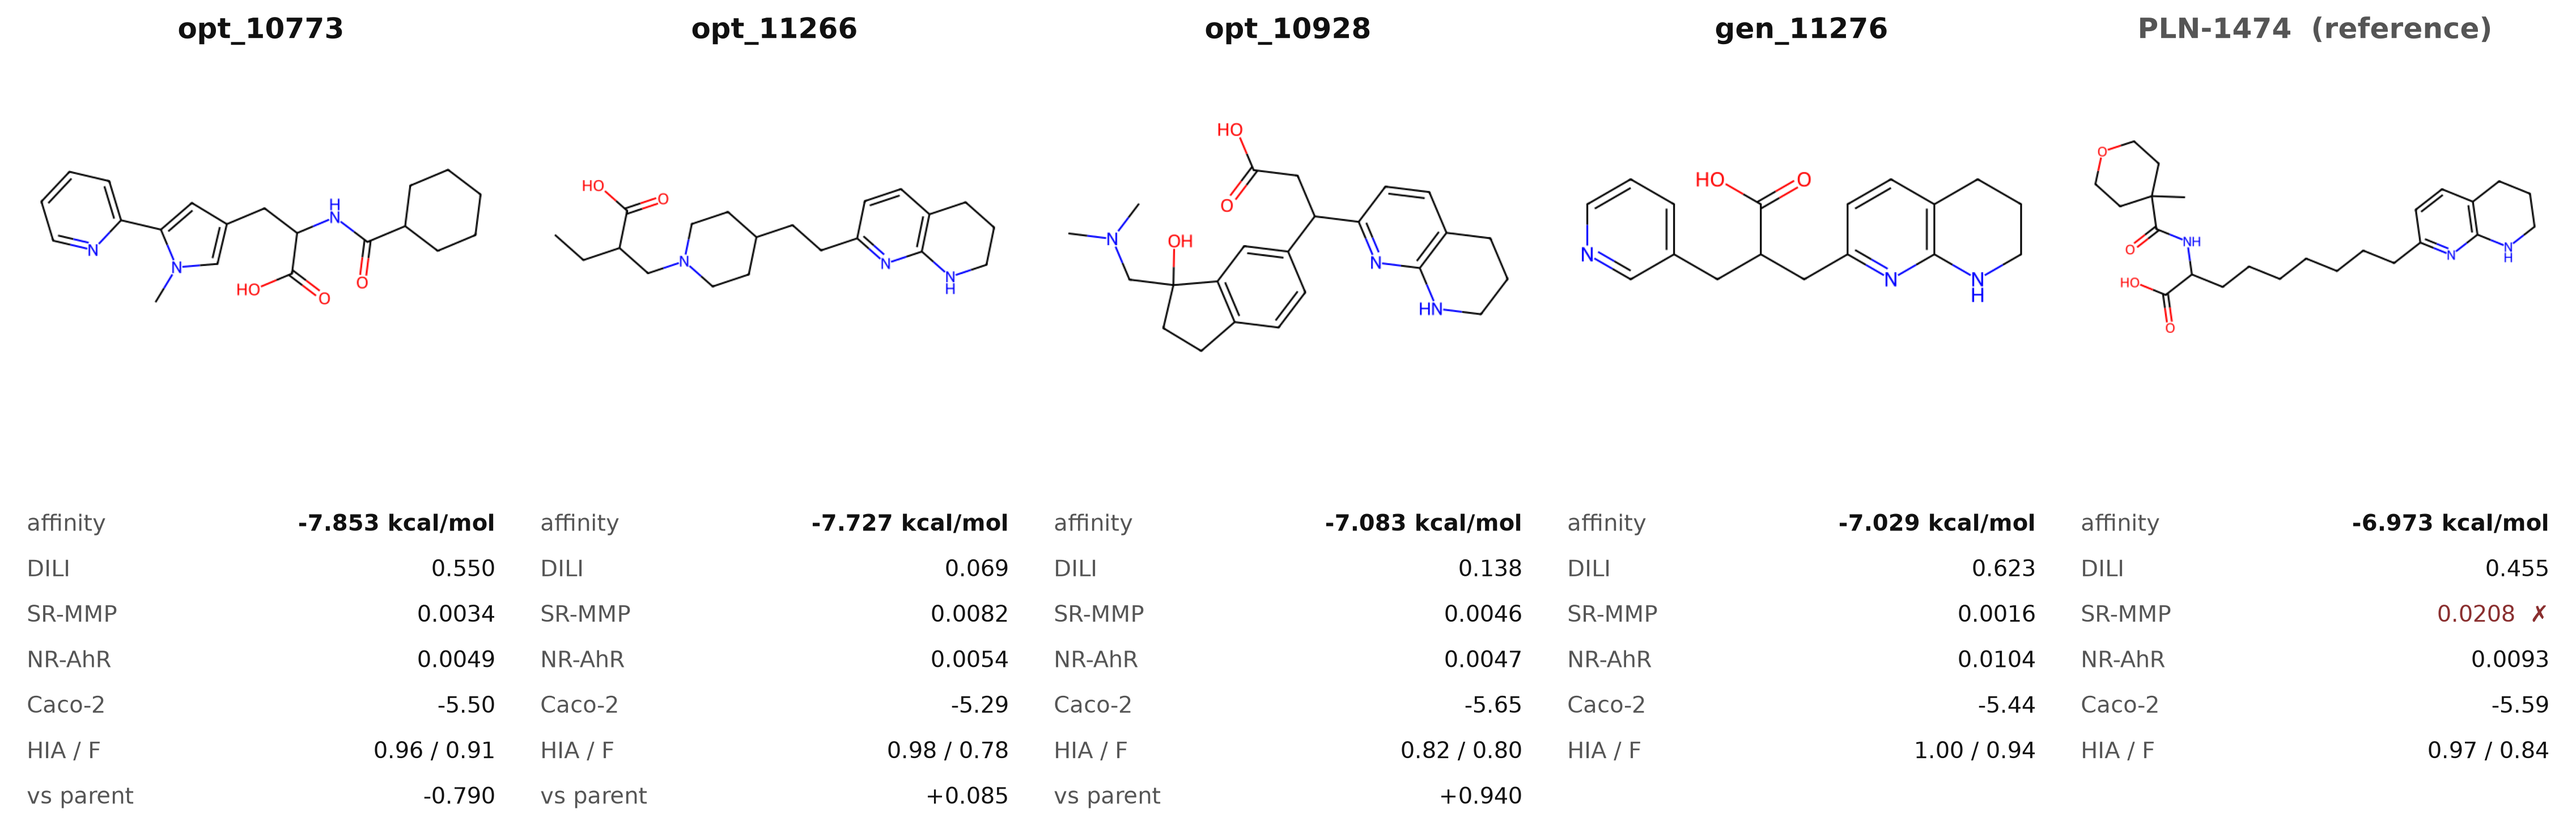
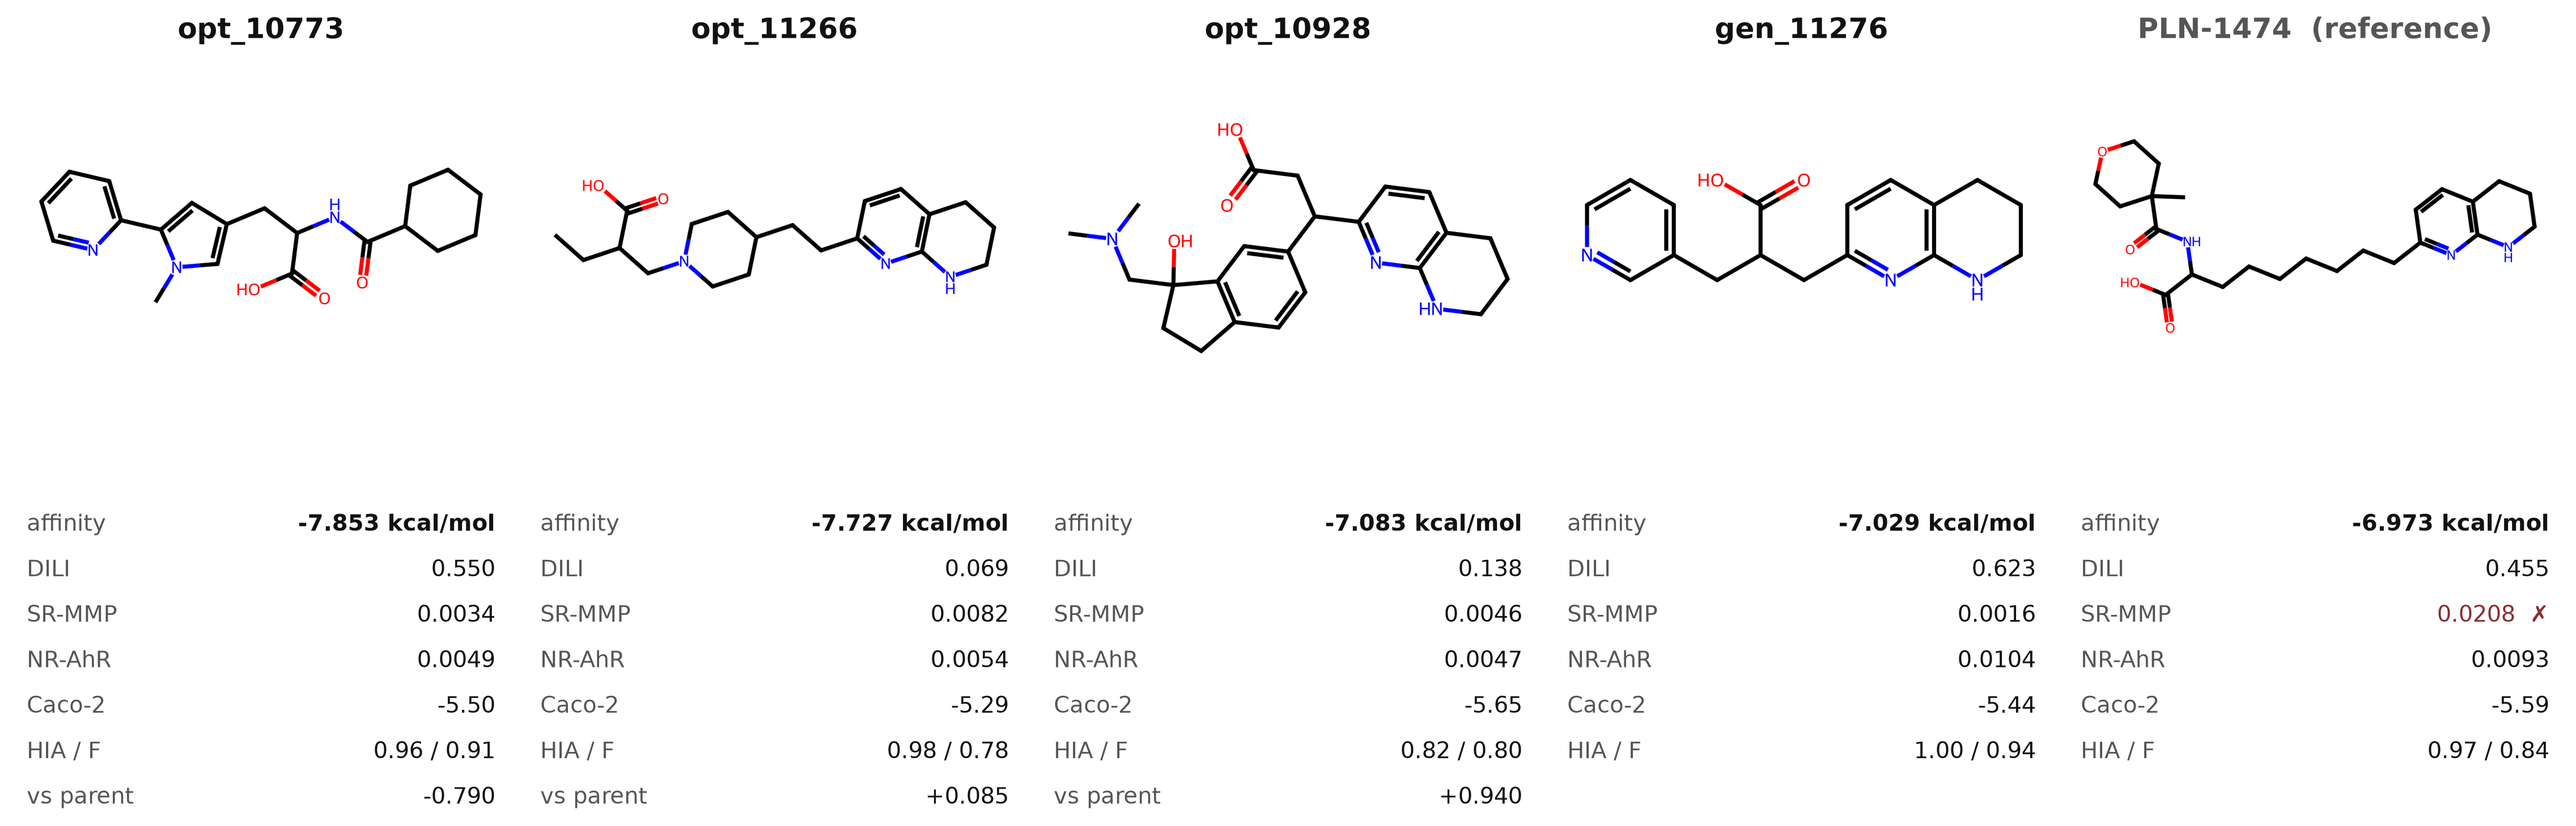
Scale bond width to the canvas in every poster drawer
Three drawers in this file set no bondLineWidth at all, so they took RDKit's
screen default of about 2 px - roughly 0.003 of their canvas width, against the
0.008 the standalone lead PNGs now use. A structure therefore looked different
depending on whether it was read from its own file or from a panel here.

All three now go through one helper that derives the width from the canvas at
that same ratio, because bondLineWidth is in DEVICE PIXELS: raising resolution
at a fixed width thins the lines rather than sharpening them. Canvases doubled
alongside - cards 540x420 to 1080x840, hero 760x330 to 1520x660, grid 620x460
to 1240x920. The hero's OffsetImage zoom halves to 0.19 so its structures keep
the size they had.

The grid's cell aspect was also wrong, and the thicker lines made it obvious.
Cells were taller than wide while these molecules are the opposite - carboxylate
at one end, basic head at the other - so every cell spent its height on blank
space above and below the structure. Cells are now 3.3 x 2.75, matching the
canvas they are drawn on, and the structures fill them. The panel prints
337 x 84 mm at 519 dpi in column 2, or 767 x 191 mm full width at 228 dpi.

868 passed, 48 skipped.

diff --git a/scripts/poster_figures_v4.py b/scripts/poster_figures_v4.py
@@ -609,6 +609,33 @@ def landscape_figure(out_path: Path, rows: list[dict], thresholds: dict) -> None
 LEADS = ["opt_10773", "opt_11266", "opt_10928", "gen_11276"]
 
 
+# RDKit's bondLineWidth is in DEVICE PIXELS, so a larger canvas drawn at a fixed
+# width gives thinner lines, not sharper ones. Every drawer in this file sizes the
+# width from its canvas at the ratio scripts/individual_structures.py uses for the
+# standalone lead PNGs (8 px of line at a 1000 px canvas), so a structure carries
+# the same weight whether it is read from a panel here or from its own file.
+BOND_WIDTH_PER_PX = 0.008
+
+
+def _mol_image(smiles: str, width: int, height: int):
+    """PIL image of one molecule, bond width scaled to the canvas."""
+    from rdkit import Chem
+    from rdkit.Chem import rdDepictor
+    from rdkit.Chem.Draw import rdMolDraw2D
+    import io
+    from PIL import Image
+
+    mol = Chem.MolFromSmiles(smiles)
+    rdDepictor.Compute2DCoords(mol)
+    drawer = rdMolDraw2D.MolDraw2DCairo(width, height)
+    opts = drawer.drawOptions()
+    opts.clearBackground = False
+    opts.bondLineWidth = max(2, round(width * BOND_WIDTH_PER_PX))
+    rdMolDraw2D.PrepareAndDrawMolecule(drawer, mol)
+    drawer.FinishDrawing()
+    return Image.open(io.BytesIO(drawer.GetDrawingText()))
+
+
 def _lead_rows(root: Path = Path(".")) -> list[dict]:
     """The shortlisted leads with the numbers the card shows, read from the
     files that produced them. PLN-1474 comes last, as the reference row."""
@@ -667,14 +694,7 @@ def leads_figure(out_path: Path, rows: list[dict], thresholds: dict) -> None:
     fig, axes = plt.subplots(2, n, figsize=(3.05 * n, 5.6),
                              gridspec_kw={"height_ratios": [2.05, 1.0]})
     for col, row in enumerate(rows):
-        mol = Chem.MolFromSmiles(row["smiles"])
-        rdDepictor.Compute2DCoords(mol)
-        drawer = rdMolDraw2D.MolDraw2DCairo(540, 420)
-        opts = drawer.drawOptions()
-        opts.clearBackground = False
-        rdMolDraw2D.PrepareAndDrawMolecule(drawer, mol)
-        drawer.FinishDrawing()
-        img = Image.open(io.BytesIO(drawer.GetDrawingText()))
+        img = _mol_image(row["smiles"], 1080, 840)
 
         ax = axes[0][col]
         ax.imshow(img); ax.axis("off")
@@ -906,14 +926,8 @@ def hero_figure(out_path: Path, rows: list[dict], thresholds: dict) -> None:
     for col, (row, claim) in enumerate(zip(picked, claims)):
         ax = fig.add_subplot(gs[0, col])
         ax.axis("off")
-        mol = Chem.MolFromSmiles(row["smiles"])
-        rdDepictor.Compute2DCoords(mol)
-        d = rdMolDraw2D.MolDraw2DCairo(760, 330)
-        d.drawOptions().clearBackground = False
-        rdMolDraw2D.PrepareAndDrawMolecule(d, mol)
-        d.FinishDrawing()
-        img = Image.open(io.BytesIO(d.GetDrawingText()))
-        ax.add_artist(AnnotationBbox(OffsetImage(img, zoom=0.38), (0.5, 0.38),
+        img = _mol_image(row["smiles"], 1520, 660)
+        ax.add_artist(AnnotationBbox(OffsetImage(img, zoom=0.19), (0.5, 0.38),
                                      frameon=False, box_alignment=(0.5, 0.5)))
         ax.text(0.5, 0.99, row["label"], fontsize=15, fontweight="bold",
                 ha="center", va="top", color="#c0392b")
@@ -1001,19 +1015,17 @@ def grid_figure(out_path: Path, rows: list[dict], ncols: int = 7) -> None:
     import io
     from PIL import Image
 
+    # Cell aspect follows the MOLECULES, not the page. These are elongated - a
+    # carboxylate at one end, a basic head at the other - so a taller-than-wide
+    # cell spends its height on blank space above and below the structure. 3.3 x
+    # 2.75 matches the 1240x920 canvas each cell is drawn on.
     nrows = -(-len(rows) // ncols)
-    fig, axes = plt.subplots(nrows, ncols, figsize=(2.75 * ncols, 3.15 * nrows))
+    fig, axes = plt.subplots(nrows, ncols, figsize=(3.3 * ncols, 2.75 * nrows))
     axes = axes.ravel()
 
     for ax, row in zip(axes, rows):
         ax.axis("off")
-        mol = Chem.MolFromSmiles(row["smiles"])
-        rdDepictor.Compute2DCoords(mol)
-        d = rdMolDraw2D.MolDraw2DCairo(620, 460)
-        d.drawOptions().clearBackground = False
-        rdMolDraw2D.PrepareAndDrawMolecule(d, mol)
-        d.FinishDrawing()
-        ax.imshow(Image.open(io.BytesIO(d.GetDrawingText())))
+        ax.imshow(_mol_image(row["smiles"], 1240, 920))
 
         hero = row["label"] in HERO
         colour = "#c0392b" if hero else ("#1f4e79" if row["ref"] else "#1a1a1a")

diff --git a/figures/v4/POSTER_LAYOUT.md b/figures/v4/POSTER_LAYOUT.md
@@ -183,7 +183,7 @@ bexotegrast는 실제로 임상에서 실패했다. 게이트는 "임상 진입 
 | `fig7_seeds.png` | **C2 2.3** | 337 × 141 mm | 205 |
 | `fig4_dili.png` | C2 2.6 | 337 × 95 mm | 314 |
 | `fig3_leads.png` | C2 2.8 | 337 × 132 mm | 300 |
-| `fig8_lead_grid.png` | C2 또는 전폭 | 337 × 97 mm (432 dpi) / 767 × 219 mm (190 dpi) | 2×7, 13종 + 참조 |
+| `fig8_lead_grid.png` | C2 또는 전폭 | 337 × 84 mm (519 dpi) / 767 × 191 mm (228 dpi) | 2×7, 13종 + 참조 |
 | `fig3_leads_cards.png` | — | 구조 카드판, 예비 | — |
 | `fig5_pharmacophore.png` | C3 3.2 | 215 × 78 mm | 345 |
 | `fig1_pipeline.png` | — | 발표 슬라이드용 | — |
